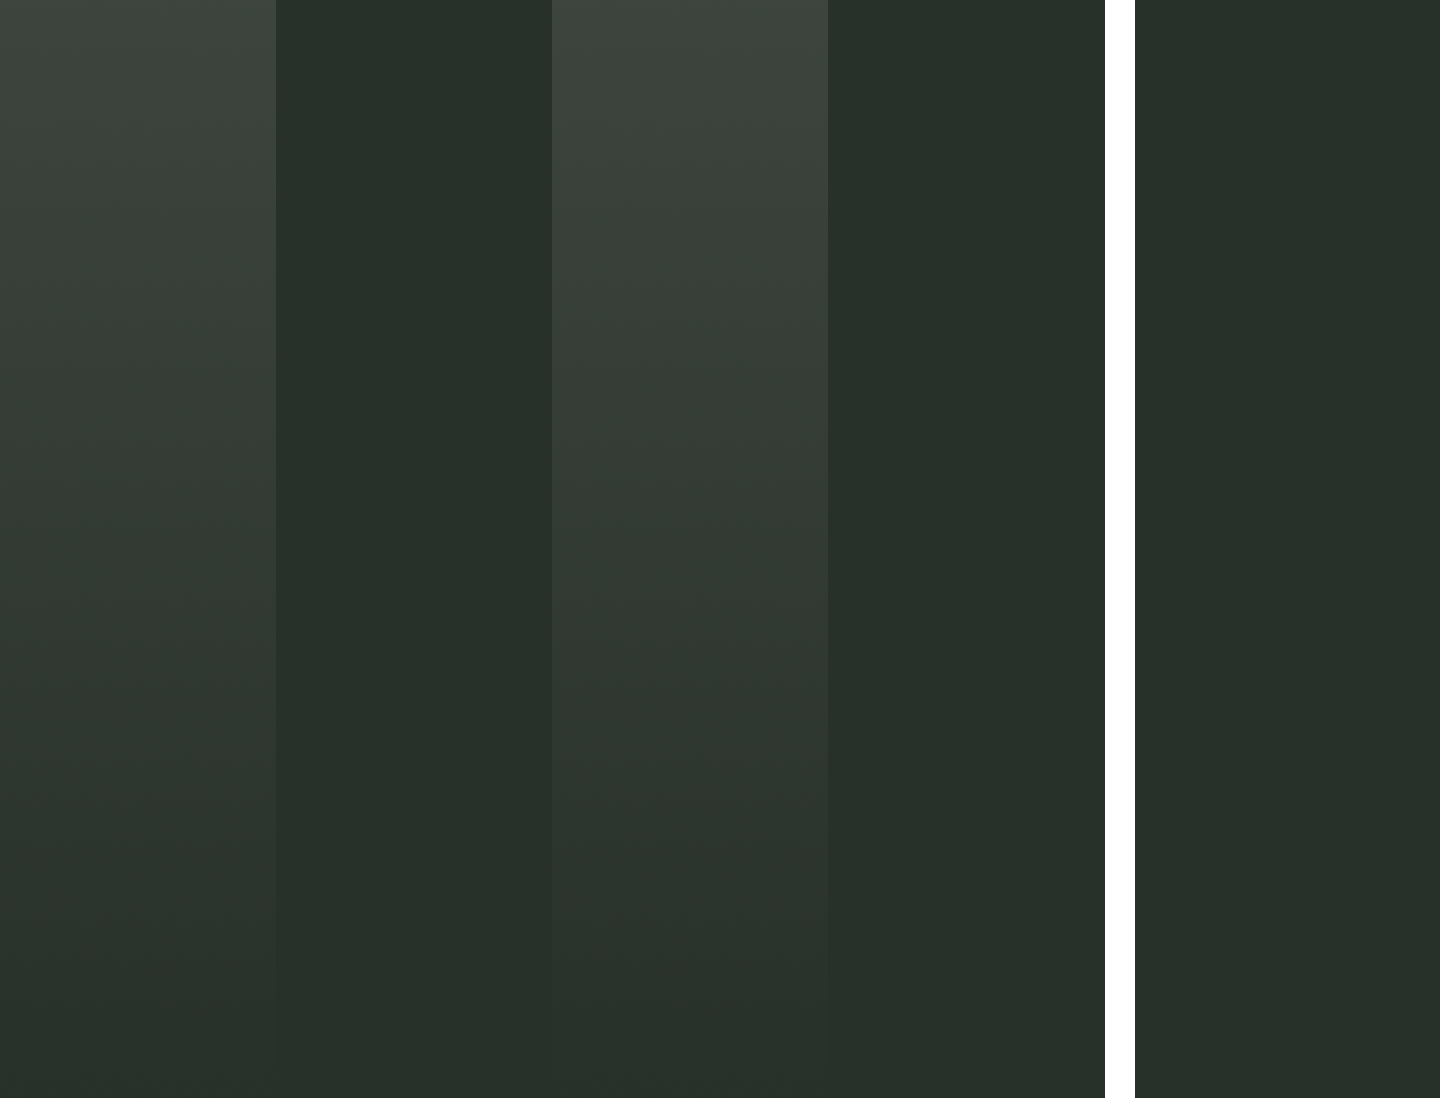
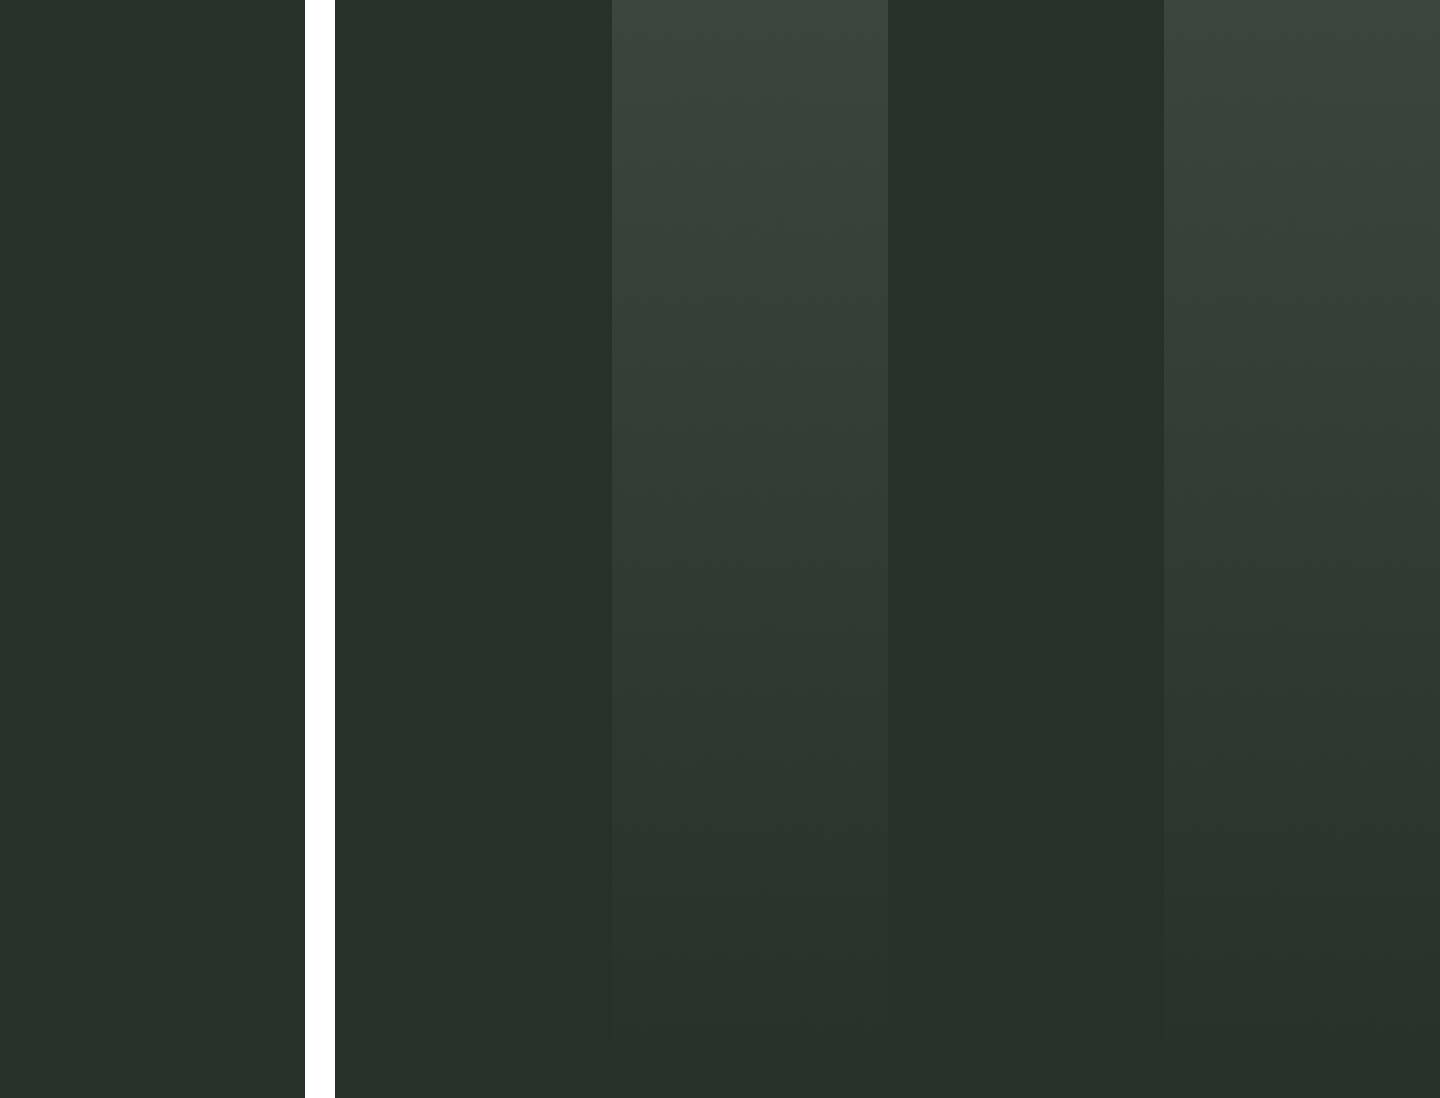
header home page

Changed region(s): [[0.75, 0.0, 0.8125, 1.0], [0.1875, 0.0, 0.25, 1.0]]

diff --git a/components/Hero.jsx b/components/Hero.jsx
@@ -1,0 +1,38 @@
+"use client";
+import Image from "next/image";
+import { motio } from "framer-motion";
+import { fadeIn } from "../variants";
+import { Button } from "./ui/button";
+
+const Hero = () => {
+  return (
+    <section
+      className="bg-hero1 lg:bg-hero bg-no-repeat  bgrota relative md:bg-left xl:bg-cover xl:h-[1098px] py-40 pb-32 xl:py-0"
+      id="home"
+    >
+      <div className="container mx-auto">
+        {/* text and image */}
+        <div>
+            {/* text */}
+          <div className="w-full xl:max-w-[460px] text-center">
+            <h1 className="text-white mb-7">
+              رستوران های زنجیره ای <br />
+              نکست جی اس
+            </h1>
+            <p className="text-white font-semibold mb-7">
+              توسط : <span className="text-orange">حسین زحمتکشان</span>
+            </p>
+            <p className="text-white mb-12 max-w-lg mx-auto xl:max-w-none xl:mx-0">
+              لورم ایپسوم متن ساختگی با تولید سادگی نامفهوم از صنعت چاپ، و با
+              استفاده از طراحان گرافیک است، چاپگرها و متون بلکه روزنامه و مجله
+              در ستون و سطرآنچنان که لازم است، و برای شرایط فعلی تکنولوژی مورد
+              نیاز، و کاربردهای متنوع با هدف بهبود ابزارهای کاربردی می باشد.
+            </p>
+          </div>
+        </div>
+      </div>
+    </section>
+  );
+};
+
+export default Hero;

diff --git a/app/globals.css b/app/globals.css
@@ -6,11 +6,14 @@
     font-family: "vazir";
     src: url("../assets/vazirmatn-v33.003/fonts/ttf/Vazirmatn-Medium.ttf");
 }
-
+*{
+    font-family: vazir;
+    direction: rtl;
+}
 @layer base{
-    *{
-        font-family: vazir;
-        direction: rtl;
+    
+    body{
+        @apply bg-body text-black tracking-[0.5px]
     }
     h1,h2,h3{
        @apply font-bold; 

diff --git a/app/page.jsx b/app/page.jsx
@@ -1,10 +1,8 @@
-import StyleGuide from "@/components/StyleGuide";
-
-
+import Hero from "@/components/Hero";
 export default function Home() {
   return (
-    <main className="w-full max-w-[1440] bg-white">
-      <StyleGuide/>
+    <main className="w-full max-w-[1440] bg-white  mx-auto overflow-hidden">
+      <Hero/>
     </main>
   );
 }

diff --git a/tailwind.config.js b/tailwind.config.js
@@ -32,6 +32,7 @@ module.exports = {
     extend: {
       backgroundImage:{
         hero:'url(/hero/bg.png)',
+        hero1:'url(/hero/bg1.png)',
         menu:'url(/menu/bg.png)',
         reservation:'url(/reservation/bg.png)',
         footer:'url(/footer/bg.png)',
